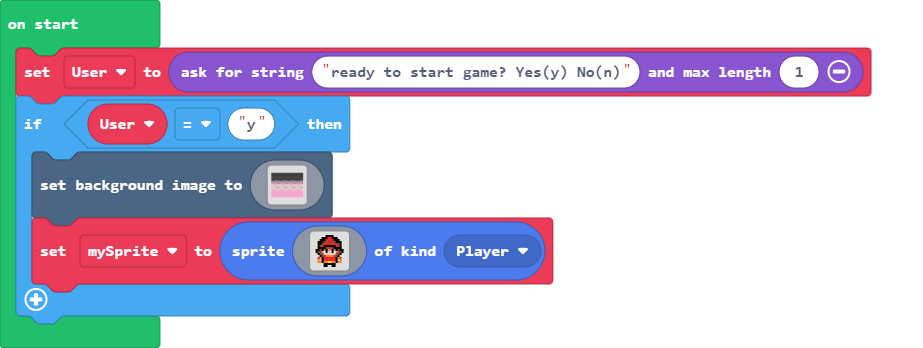
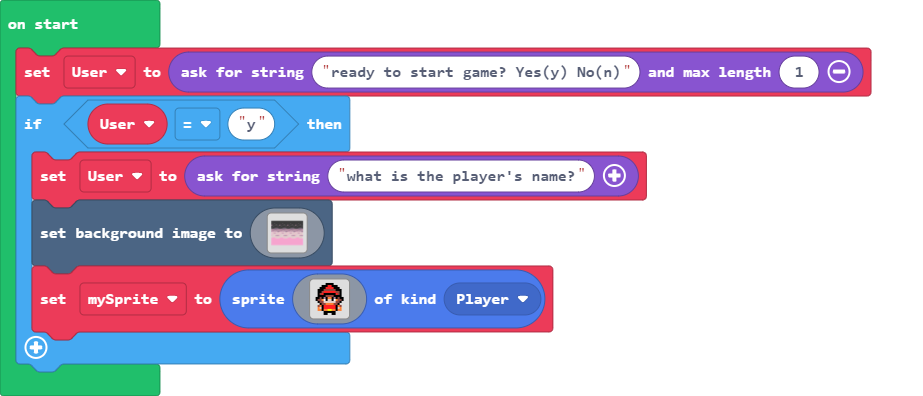
Update main.blocks, main.ts

Changed region(s): [[0.0, 0.1149, 0.9707, 0.9483], [0.0, 0.0287, 0.091, 0.0862]]

diff --git a/main.ts b/main.ts
@@ -1,6 +1,7 @@
 let mySprite: Sprite = null
 let User = game.askForString("ready to start game? Yes(y) No(n)", 1)
 if (User == "y") {
+    User = game.askForString("what is the player's name?")
     scene.setBackgroundImage(img`
         ffffffffffffffffffffffffffffffffffffffffffffffffffffffffffffffffffffffffffffffffffffffffffffffffffffffffffffffffffffffffffffffffffffffffffffffffffffffffffffffff
         ffffffffffffffffffffffffffffffffffffffffffffffffffffffffffffffffffffffffffffffffffffffffffffffffffffffffffffffffffffffffffffffffffffffffffffffffffffffffffffffff
